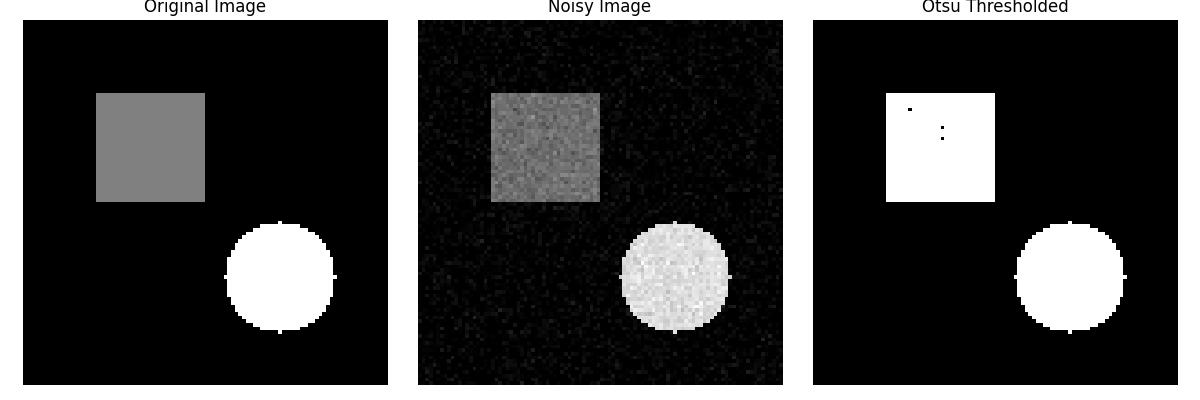
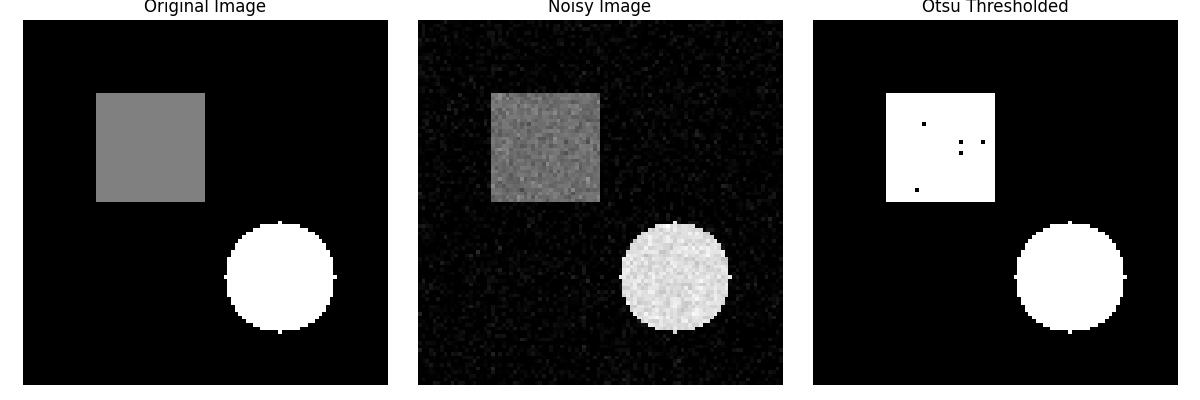
updated

diff --git a/region_growing_segmentation.py b/region_growing_segmentation.py
@@ -2,7 +2,7 @@ import cv2
 import numpy as np
 import matplotlib.pyplot as plt
 
-def region_growing(image, seed, threshold=5):
+def region_grow_single(image, seed, threshold=20):
     height, width = image.shape
     segmented = np.zeros((height, width), dtype=np.uint8)
     visited = np.zeros((height, width), dtype=bool)
@@ -11,7 +11,6 @@ def region_growing(image, seed, threshold=5):
     region_mean = seed_value
     region_size = 1
 
-    # Stack for region growing (x, y) coordinates
     stack = [seed]
 
     while stack:
@@ -27,7 +26,6 @@ def region_growing(image, seed, threshold=5):
             region_mean = (region_mean * region_size + pixel_value) / (region_size + 1)
             region_size += 1
 
-            # 4-neighbors (up, down, left, right)
             for dx, dy in [(-1,0), (1,0), (0,-1), (0,1)]:
                 nx, ny = x + dx, y + dy
                 if 0 <= nx < height and 0 <= ny < width and not visited[nx, ny]:
@@ -36,24 +34,33 @@ def region_growing(image, seed, threshold=5):
     return segmented
 
 # Load grayscale image
-image = cv2.imread('otsu_segmentation_output.jpg', cv2.IMREAD_GRAYSCALE)
+image = cv2.imread('noisy_image.jpg', cv2.IMREAD_GRAYSCALE)
 
-# Set seed point manually (e.g., middle of image)
-seed_point = (int(image.shape[0]/2), int(image.shape[1]/2))
+# Seed points: one inside square, one inside circle
+seed_points = [(34, 33), (67, 71)]
 
-# Apply region growing
-segmented = region_growing(image, seed_point, threshold=20)
+# Apply region growing independently for each seed
+segmented_total = np.zeros_like(image)
+for seed in seed_points:
+    region = region_grow_single(image, seed, threshold=30)
+    segmented_total = cv2.bitwise_or(segmented_total, region)
 
-# Display results
-plt.figure(figsize=(10,5))
-plt.subplot(1,2,1)
-plt.title('Original Image')
-plt.imshow(image, cmap='gray')
+# Convert grayscale to RGB for red dots
+image_rgb = cv2.cvtColor(image, cv2.COLOR_GRAY2RGB)
+for seed in seed_points:
+    cv2.circle(image_rgb, (seed[1], seed[0]), radius=1, color=(255, 0, 0), thickness=-1)
+
+# Plot
+plt.figure(figsize=(10, 5))
+
+plt.subplot(1, 2, 1)
+plt.title('Original Image with Seeds')
+plt.imshow(image_rgb)
 plt.axis('off')
 
-plt.subplot(1,2,2)
-plt.title('Segmented Region')
-plt.imshow(segmented, cmap='gray')
+plt.subplot(1, 2, 2)
+plt.title('Segmented Region (2 Objects)')
+plt.imshow(segmented_total, cmap='gray')
 plt.axis('off')
 
 plt.tight_layout()

diff --git a/otsu_segmentation_with_noise.py b/otsu_segmentation_with_noise.py
@@ -2,24 +2,24 @@ import numpy as np
 import cv2
 import matplotlib.pyplot as plt
 
-# Step 1: Create an empty grayscale image (100x100) - background value 0
+# Create an empty grayscale image (100x100) - background value 0
 image = np.zeros((100, 100), dtype=np.uint8)
 
-# Step 2: Add Object 1 - a gray rectangle with pixel value 100
+#Add Object 1 - a gray rectangle with pixel value 100
 image[20:50, 20:50] = 100
 
-# Step 3: Add Object 2 - a lighter gray circle with pixel value 200
+#Add Object 2 - a lighter gray circle with pixel value 200
 cv2.circle(image, (70, 70), 15, 200, -1)
 
-# Step 4: Add Gaussian noise
-noise = np.random.normal(0, 10, image.shape)  # mean=0, std=10
+#Gaussian noise-mean=0,std=10
+noise = np.random.normal(0, 10, image.shape)
 noisy_image = image + noise
 noisy_image = np.clip(noisy_image, 0, 255).astype(np.uint8)
 
-# Step 5: Apply Otsu’s thresholding
+#Apply Otsu’s thresholding
 _, otsu_thresh = cv2.threshold(noisy_image, 0, 255, cv2.THRESH_BINARY + cv2.THRESH_OTSU)
 
-# Step 6: Plot and save the result
+# Plot and save
 plt.figure(figsize=(12, 4))
 
 plt.subplot(1, 3, 1)
@@ -39,5 +39,8 @@ plt.axis('off')
 
 plt.tight_layout()
 plt.savefig("otsu_segmentation_output.jpg")
+# Save the original grayscale image
+cv2.imwrite("noisy_image.jpg", noisy_image)
+
 print("Image saved as otsu_segmentation_output.jpg")
 plt.show()
